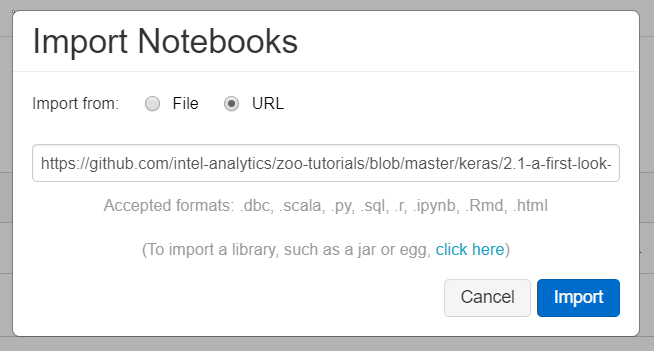
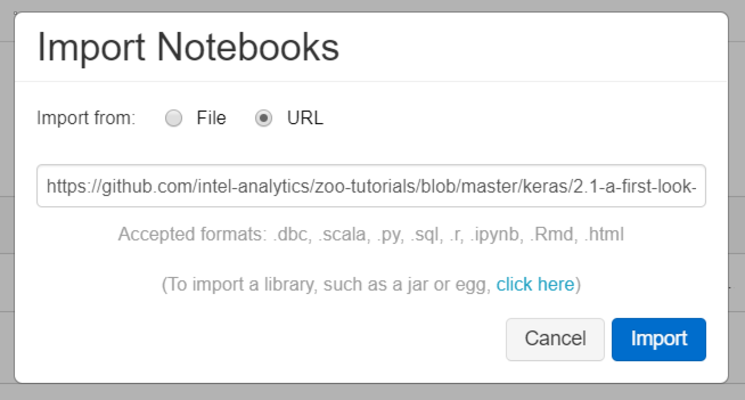
resize pic locally and update

diff --git a/docs/docs/ProgrammingGuide/AnalyticsZoo-on-Databricks.md b/docs/docs/ProgrammingGuide/AnalyticsZoo-on-Databricks.md
@@ -16,25 +16,25 @@ Before you start this guide, make sure a Databricks workspace is ready and a clu
 
 1. Install libraries. Right-click the Workspace folder. Select **Create > Library**.
 
-<img src="../Image/PlatformGuide/create-library.png" >
+![Pic1](../Image/PlatformGuide/create-library.png) 
 
 2. Install Analytics Zoo python environment using PyPI. 
 
-<img src="../Image/PlatformGuide/analytics-zoo-PyPI.PNG" width="380">
+![Pic2](../Image/PlatformGuide/analytics-zoo-PyPI.PNG) 
 
 3. Install Analytics Zoo prebuilt jar package. Download Analytics Zoo prebuilt release package from the [Release Page](https://analytics-zoo.github.io/master/#release-download/). Please note that you should choose the same spark version of package as your Databricks runtime version. Unzip it. Find the jar named "analytics-zoo-bigdl_*-spark_*-jar-with-dependencies.jar" in the lib directory. Drop the jar on Databricks.
 
-<img src="../Image/PlatformGuide/analytics-zoo-jar.PNG" width="600">
+![Pic3](../Image/PlatformGuide/analytics-zoo-jar.PNG) 
 
 4. Make sure the jar file and analytics-zoo installed using PyPI are installed on all clusters. In **Libraries** tab of your cluster, check installed libraries and click “Install automatically on all clusters” option in **Admin Settings**.
 
-<img src="../Image/PlatformGuide/install-on-allclusters.PNG" width="380">
+![Pic4](../Image/PlatformGuide/install-on-allclusters.PNG)
 
 ### **Setting Spark configuration**
 
 On the cluster configuration page, click the **Advanced Options** toggle. Click the **Spark** tab. You can provide custom [Spark configuration properties](https://spark.apache.org/docs/latest/configuration.html) in a cluster configuration. Please set it according to your cluster resource and program needs.  
 
-<img src="../Image/PlatformGuide/spark-config-aws.png" >
+![Pic5](../Image/PlatformGuide/spark-config-aws.png)
 
 See below for an example of Spark config setting needed by Analytics Zoo. Here it sets 1 core and 6g memory per executor and driver. Note that "spark.cores.max" needs to be properly set below.
 
@@ -71,11 +71,11 @@ Prepending /databricks/python/lib/python3.5/site-packages/zoo/share/conf/spark-a
 
 If you would like to run a completed Analytics Zoo notebook, you can import an Analytics Zoo notebook from a URL directly. 
 
-<img src="../Image/PlatformGuide/import-notebook.png" >
+![Pic6](../Image/PlatformGuide/import-notebook.png)
 
 For example, you may import a simple [Analytics Zoo tutorials notebook](https://github.com/intel-analytics/zoo-tutorials/blob/master/keras/2.1-a-first-look-at-a-neural-network.ipynb).
 
-<img src="../Image/PlatformGuide/import-zoo-notebook.PNG" width="400">
+![Pic7](../Image/PlatformGuide/import-zoo-notebook.PNG)
 
 Note the above notebook runs on Spark local default; to make it run on Databricks cluster, please change the first Python cell in the notebook to:
 
